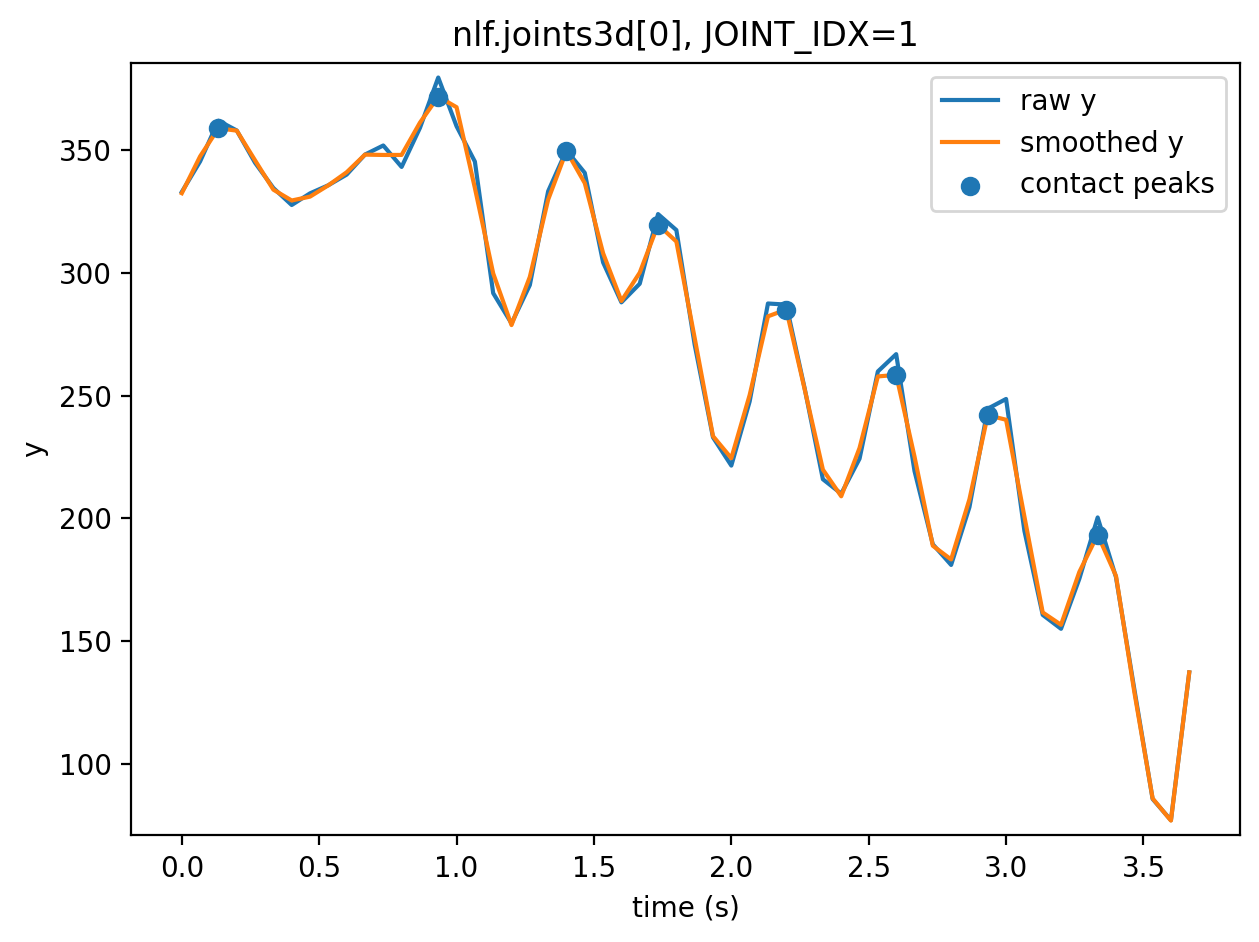
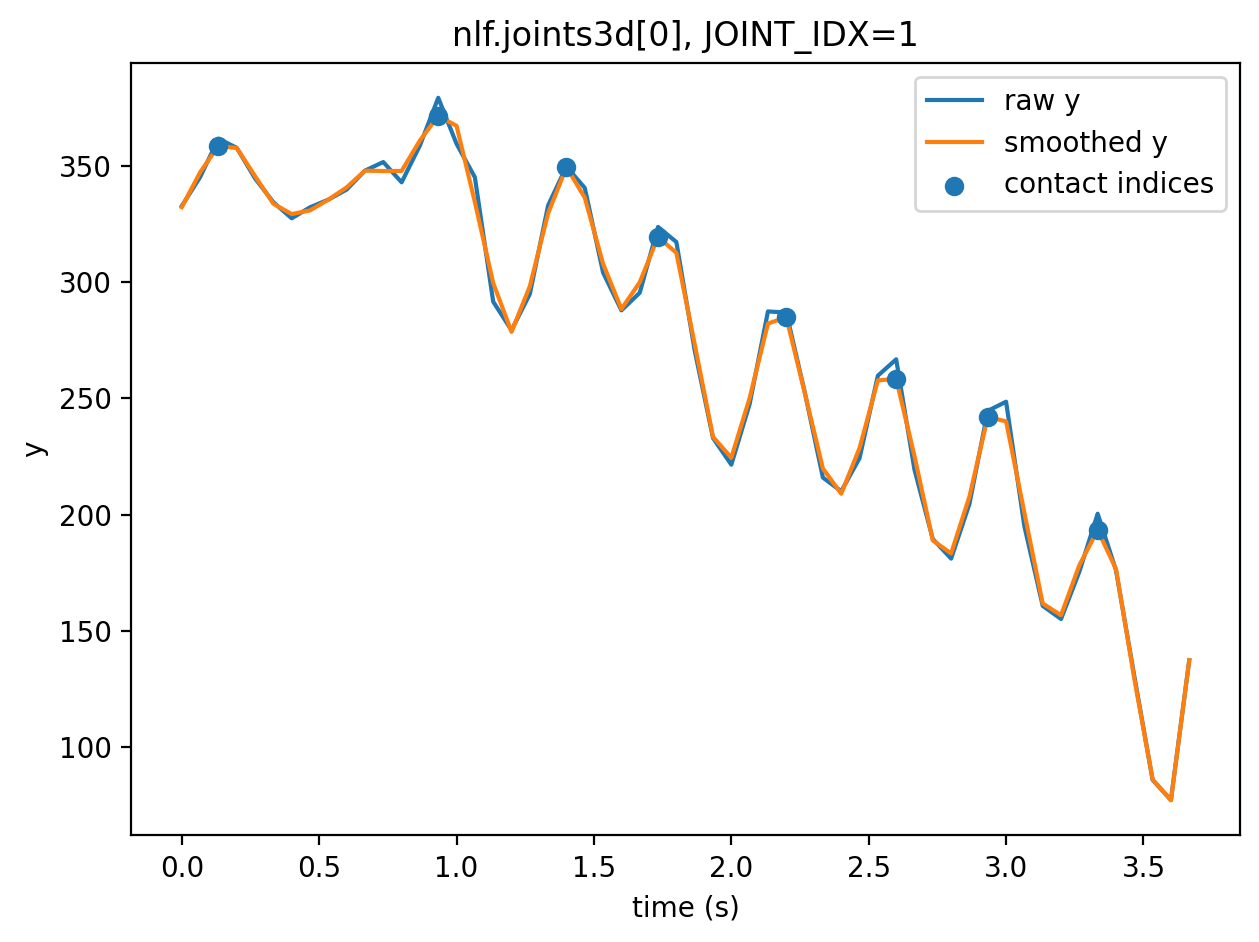
foot strike example datas and partially true algorithm.

diff --git a/analyze_foot_strike.py b/analyze_foot_strike.py
@@ -1,0 +1,135 @@
+
+import os
+import glob
+import argparse
+import numpy as np
+
+from io_utility import open_nlf_output_json, extract_ys_and_times
+from math_utility import get_dt, smooth, find_y_peaks
+
+
+def detect_strike_for_side(video_nlf, side, threshold_sec=0.03):
+    heel_name = f"{side}_heel"
+    toe_name = f"{side}_toe"
+
+    try:
+        times_h, ys_h = extract_ys_and_times(video_nlf, "nlf.joints3d[0]", heel_name)
+        times_t, ys_t = extract_ys_and_times(video_nlf, "nlf.joints3d[0]", toe_name)
+    except SystemExit:
+        return "unknown", None, None
+
+    if len(times_h) == 0 or len(times_t) == 0:
+        return "unknown", None, None
+
+    
+    # Smooth signals
+    dts_h = get_dt(times_h)
+    dts_t = get_dt(times_t)
+    dts = float(np.median([dts_h, dts_t]))
+
+    ys_h_s = smooth(ys_h, dts)
+    ys_t_s = smooth(ys_t, dts)
+
+
+    # Find maxima (peaks) — in these NLF outputs contact corresponds to peaks
+    peaks_h = find_y_peaks(ys_h_s, dts)
+    peaks_t = find_y_peaks(ys_t_s, dts)
+
+    def select_first_valid_peak(peaks, ys_s, times, dts):
+        if peaks is None:
+            peaks = np.array([], dtype=int)
+        peaks = np.array(peaks, dtype=int)
+
+        # ignore very early/late frames which can be noisy/start-stop artifacts
+        margin = max(0.05, 3 * dts)
+        t_start = times[0] + margin
+        t_end = times[-1] - margin
+
+        # candidate peaks within time window
+        cand = [int(p) for p in peaks if (times[int(p)] >= t_start and times[int(p)] <= t_end)]
+
+        # amplitude threshold: require peak height > median + 0.5*std
+        if len(ys_s) > 0:
+            amp_thr = float(np.median(ys_s) + 0.5 * np.std(ys_s))
+        else:
+            amp_thr = -np.inf
+
+        for idx in cand:
+            if ys_s[int(idx)] >= amp_thr:
+                return int(idx)
+
+        # fallback: first candidate regardless of amplitude
+        if len(cand) > 0:
+            return int(cand[0])
+
+        # fallback to global max if it is not at edges
+        if len(ys_s) > 0:
+            imax = int(np.argmax(ys_s))
+            if times[imax] >= t_start and times[imax] <= t_end:
+                return imax
+
+        # last resort: earliest peak even if near edges
+        if len(peaks) > 0:
+            return int(peaks[0])
+
+        return None
+
+    sel_h = select_first_valid_peak(peaks_h, ys_h_s, times_h, dts)
+    sel_t = select_first_valid_peak(peaks_t, ys_t_s, times_t, dts)
+
+    if sel_h is not None:
+        t_h = float(times_h[int(sel_h)])
+    else:
+        t_h = None
+
+    if sel_t is not None:
+        t_t = float(times_t[int(sel_t)])
+    else:
+        t_t = None
+
+    # if either is None, try safe global fallbacks
+    if t_h is None and len(ys_h_s) > 0:
+        t_h = float(times_h[int(np.argmax(ys_h_s))])
+    if t_t is None and len(ys_t_s) > 0:
+        t_t = float(times_t[int(np.argmax(ys_t_s))])
+
+    dt = abs(t_h - t_t)
+    if dt <= threshold_sec:
+        return "simultaneous", t_h, t_t
+    if t_h < t_t:
+        return "heel", t_h, t_t
+    return "toe", t_h, t_t
+
+
+def analyze_file(jsonl_path, threshold_sec=0.03):
+    video_nlf = open_nlf_output_json(jsonl_path)
+    results = {}
+    for side in ("left", "right"):
+        typ, t_h, t_t = detect_strike_for_side(video_nlf, side, threshold_sec=threshold_sec)
+        results[side] = {"type": typ, "heel_time": t_h, "toe_time": t_t}
+        #print(f"{jsonl_path} - {side} foot strike: {typ} (heel_time={t_h}, toe_time={t_t})")
+    return results
+
+
+def main(folder="foot_strike_examples_jsons", threshold=0.03):
+    pattern = os.path.join(folder, "*.jsonl")
+    files = sorted(glob.glob(pattern))
+    if not files:
+        print("No JSONL files found in", folder)
+        return
+
+    for p in files:
+        try:
+            res = analyze_file(p, threshold_sec=threshold)
+        except Exception as e:
+            print(p, "=> error:", e)
+            continue
+        print(p, "=> left:", res["left"]["type"], ", right:", res["right"]["type"]) 
+
+
+if __name__ == '__main__':
+    parser = argparse.ArgumentParser(description="Analyze foot strike type in JSONL outputs")
+    parser.add_argument("--folder", default="foot_strike_examples_jsons", help="Folder with jsonl files")
+    parser.add_argument("--threshold", type=float, default=0.03, help="Time threshold for simultaneous (seconds)")
+    args = parser.parse_args()
+    main(folder=args.folder, threshold=args.threshold)

diff --git a/frames_to_nlf.py b/frames_to_nlf.py
@@ -50,7 +50,7 @@ def post_frame(
 def main():
     ap = argparse.ArgumentParser(description="Extract NLF params per frame via FastAPI /analyze_frame")
     ap.add_argument("--video", required=True, help="Input video path (mp4/mov/etc.)")
-    ap.add_argument("--api", default="http://127.0.0.1:8080/analyze_frame", help="Analyze endpoint URL")
+    ap.add_argument("--api", default="http://127.0.0.1:8080/analyze", help="Analyze endpoint URL")
     ap.add_argument("--out", required=True, help="Output JSONL path, e.g. out_nlf.jsonl")
     ap.add_argument("--every-n", type=int, default=1, help="Process every Nth frame (default: 1 = all frames)")
     ap.add_argument("--start", type=int, default=0, help="Start frame index (default: 0)")
